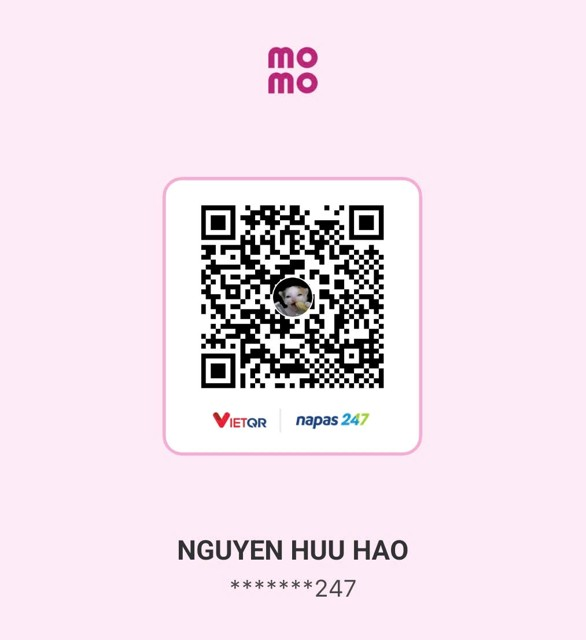
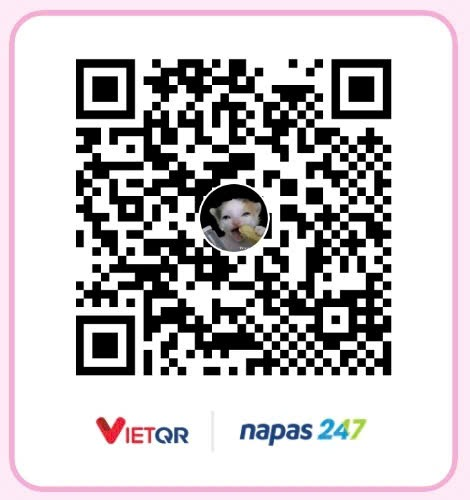
Sửa khung hủy đơn bị tràn và phóng to mã QR thanh toán
- Bỏ chiều cao 100% của info-card khiến khung Hủy đơn đè lên footer, không bấm được
- Cắt ảnh QR chỉ còn phần mã, hiển thị 300px, bấm để xem cỡ lớn
- Giữ hai khung cao bằng nhau ở trang Tài khoản

diff --git a/public/css/bloomy.css b/public/css/bloomy.css
@@ -517,7 +517,7 @@ nav[role="navigation"] .small.text-muted { color: var(--muted) !important; }
 .auth-card .form-check-input:checked { background-color: var(--sage-dark); border-color: var(--sage-dark); }
 
 /* ---------- Tài khoản ---------- */
-.info-card { background: #fff; border: 1px solid var(--line); border-radius: var(--radius); padding: 1.5rem; height: 100%; }
+.info-card { background: #fff; border: 1px solid var(--line); border-radius: var(--radius); padding: 1.5rem; }
 .info-card-title { font-size: 1.3rem; margin-bottom: 1.2rem; }
 .info-list { display: grid; grid-template-columns: 140px 1fr; gap: .7rem 1rem; margin: 0; }
 .info-list dt { font-weight: 500; color: var(--muted); }
@@ -628,8 +628,8 @@ nav[role="navigation"] .small.text-muted { color: var(--muted) !important; }
     border-radius: var(--radius);
     padding: 1.2rem;
 }
-.bank-qr { background: #fff; border-radius: 14px; padding: .5rem; flex: 0 0 auto; }
-.bank-qr img { display: block; width: 240px; height: auto; }
+.bank-qr { flex: 0 1 300px; max-width: 100%; min-width: 0; }
+.bank-qr img { display: block; width: 300px; max-width: 100%; height: auto; border-radius: 18px; }
 .bank-info { flex: 1 1 260px; }
 .bank-info h3 { font-size: 1.2rem; margin-bottom: .3rem; }
 .bank-info dl { display: grid; grid-template-columns: 110px 1fr; gap: .35rem .8rem; margin-bottom: .8rem; }

diff --git a/resources/views/components/bank-transfer.blade.php b/resources/views/components/bank-transfer.blade.php
@@ -5,7 +5,10 @@
 {{-- Hướng dẫn chuyển khoản bằng mã QR tĩnh của cửa hàng: khách tự nhập số tiền và nội dung --}}
 <div {{ $attributes->merge(['class' => 'bank-transfer']) }}>
     <div class="bank-qr">
-        <img src="{{ asset($bank['qr_image']) }}" alt="Mã QR nhận tiền của {{ $bank['account_name'] }}" loading="lazy" width="240">
+        <a href="{{ asset($bank['qr_image']) }}" target="_blank" rel="noopener" title="Bấm để xem mã QR cỡ lớn">
+            <img src="{{ asset($bank['qr_image']) }}" alt="Mã QR nhận tiền của {{ $bank['account_name'] }}" width="300" height="319">
+        </a>
+        <div class="small text-muted text-center mt-1"><i class="bi bi-zoom-in"></i> Bấm vào mã để phóng to</div>
     </div>
     <div class="bank-info">
         <h3>Quét mã để chuyển khoản</h3>

diff --git a/resources/views/account/show.blade.php b/resources/views/account/show.blade.php
@@ -15,7 +15,7 @@
         <div class="container">
             <div class="row g-4">
                 <div class="col-lg-7">
-                    <div class="info-card">
+                    <div class="info-card h-100">
                         <h2 class="info-card-title">Thông tin tài khoản</h2>
                         <dl class="info-list">
                             <dt>Họ và tên</dt>
@@ -46,7 +46,7 @@
                 </div>
 
                 <div class="col-lg-5">
-                    <div class="info-card">
+                    <div class="info-card h-100">
                         <h2 class="info-card-title">Lối tắt</h2>
                         <div class="d-grid gap-2">
                             <a href="{{ route('orders.index') }}" class="btn btn-outline-bloom"><i class="bi bi-receipt me-1"></i> Đơn hàng của tôi</a>
